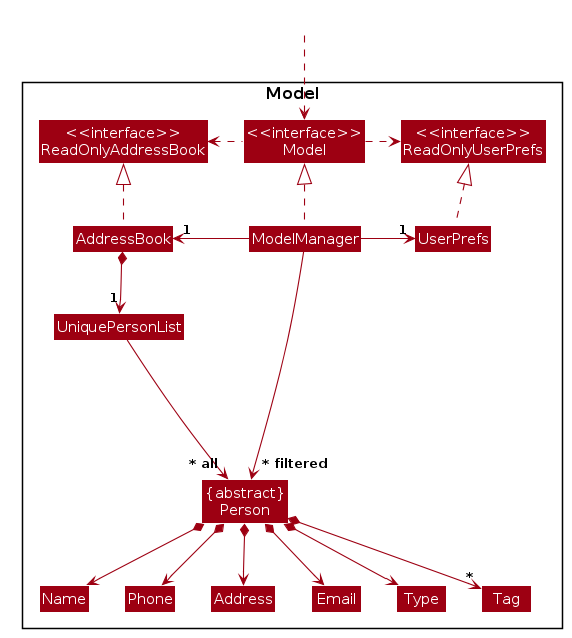
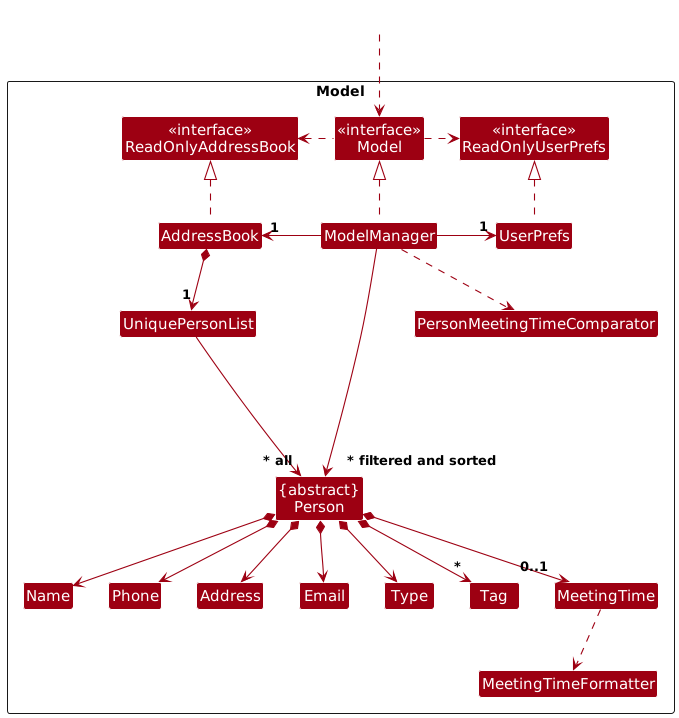
Update Model component

diff --git a/docs/DeveloperGuide.md b/docs/DeveloperGuide.md
@@ -4,7 +4,7 @@ title: "Developer Guide"
 pageNav: 3
 ---
 
-# AB-3 Developer Guide
+# D.A.V.E. Developer Guide
 
 <!-- * Table of Contents -->
 <page-nav-print />
@@ -121,20 +121,24 @@ How the parsing works:
 ### Model component
 **API** : [`Model.java`](https://github.com/se-edu/addressbook-level3/tree/master/src/main/java/seedu/address/model/Model.java)
 
-<img src="diagrams/ModelClassDiagram.png" width="450" />
-
+<div align="center">
+    <img src="diagrams/ModelClassDiagram.png" width="450" />
+</div>
 
 The `Model` component,
 
 * stores the address book data i.e., all `Person` objects (which are contained in a `UniquePersonList` object).
-* stores the currently 'selected' `Person` objects (e.g., results of a search query) as a separate _filtered_ list which is exposed to outsiders as an unmodifiable `ObservableList<Person>` that can be 'observed' e.g. the UI can be bound to this list so that the UI automatically updates when the data in the list change.
+* stores the currently 'selected' `Person` objects (e.g., results of a search/sort query) as a separate _filtered and sorted_ list which is exposed to outsiders as an unmodifiable `ObservableList<Person>` that can be 'observed' e.g. the UI can be bound to this list so that the UI automatically updates when the data in the list change.
 * stores a `UserPref` object that represents the user’s preferences. This is exposed to the outside as a `ReadOnlyUserPref` objects.
 * does not depend on any of the other three components (as the `Model` represents data entities of the domain, they should make sense on their own without depending on other components)
 
-<img src="diagrams/PersonClassDiagram.png" width="250" />
+The following diagram shows the classes that extend the abstract `Person` class.
+<div align="center">
+    <img src="diagrams/PersonClassDiagram.png" width="250" />
+</div>
 
 The abstract `Person` class is extended by two separate classes, `Lead` and `Client`. These instances are distinguished by their `Type` field in `Person`.
-
+`Lead` objects also contain an additional `KeyMilestone` attribute.
 ### Storage component
 
 **API** : [`Storage.java`](https://github.com/se-edu/addressbook-level3/tree/master/src/main/java/seedu/address/storage/Storage.java)
